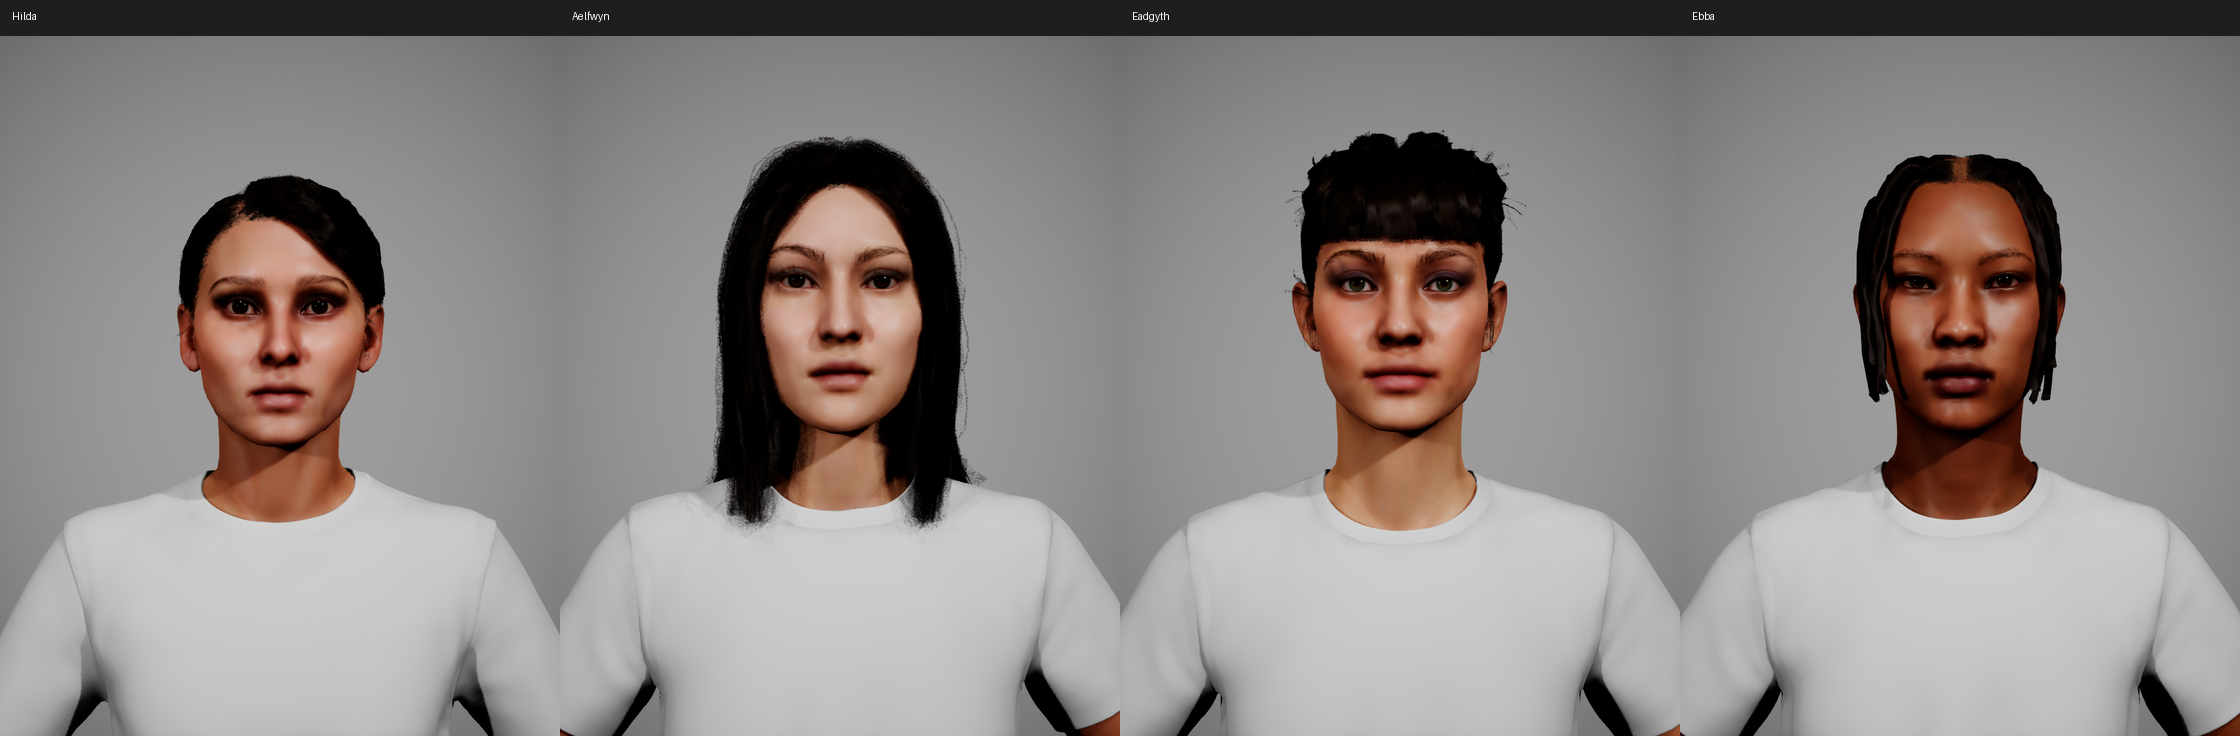
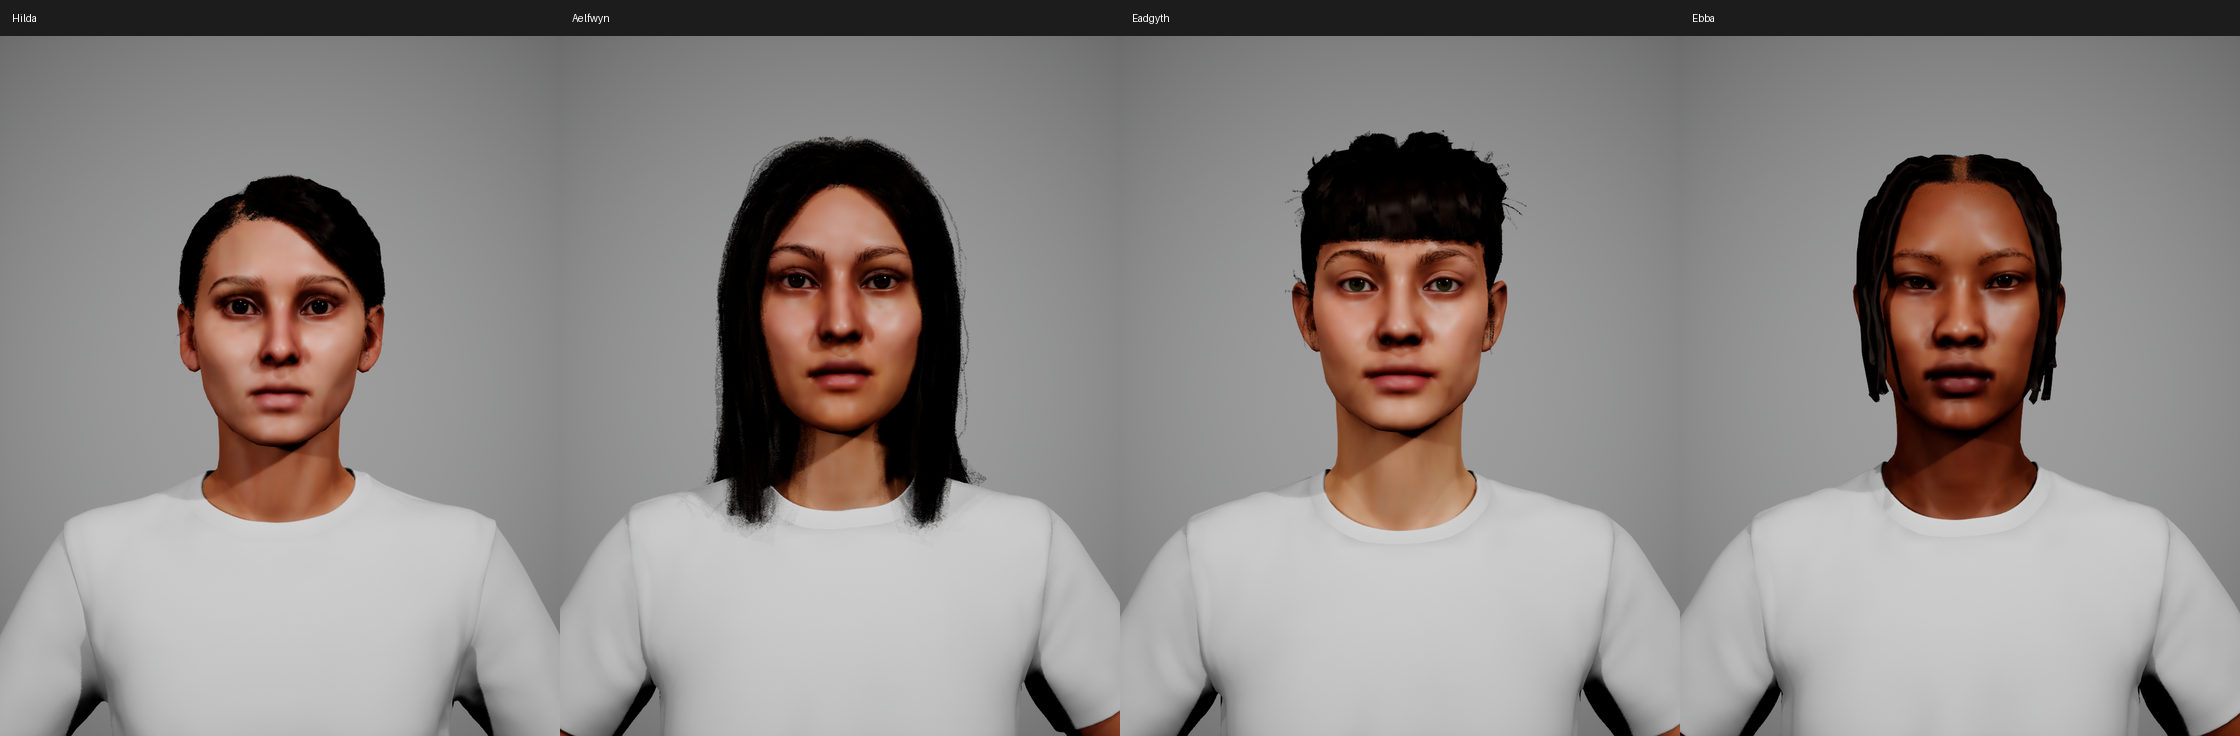
Player faces: "makeup": "none" clears preset makeup on the four female faces
Build-PlayerMetaHumans.py clears makeup_settings (foundation, eyes, blush, lips)
via commit_makeup_settings when a face sets "makeup": "none". Hilda, Aelfwyn,
Eadgyth and Ebba rebuilt and re-rendered; faces_built_female.png refreshed.

diff --git a/tools/Build-PlayerMetaHumans.py b/tools/Build-PlayerMetaHumans.py
@@ -7,6 +7,7 @@ It starts on the editor's first tick, builds, then quits the editor.
 
 Reads GameClient/ArtSource/Characters/Player/faces.json ({"faces": [{"id", "preset", "gender", "hair", "beard", "mustache", "skin"}]}).
 Optional "skin": [u, v] sets the skin tone (the Creator's tone picker position); every build logs the face's tone as PLAYER_METAHUMAN_SKIN.
+Optional "makeup": "none" clears the preset's foundation, eye shadow/liner, blush and lipstick (logs PLAYER_METAHUMAN_MAKEUP).
 Each face's preset is copied to /Game/Frontier/Characters/Player/Faces/MHC_<id> and given its grooms (WI_* wardrobe
 items). MetaHuman's cloud auto-rig and texture download run only when the copy cannot build yet (they use the editor's
 signed-in Epic account). The optimized, medium-quality assembly goes to /Game/Frontier/Characters/Player/Built/MHC_<id>,
@@ -55,6 +56,17 @@ def build_face(face, subsystem, library):
             skin.skin.u, skin.skin.v = face['skin']
             subsystem.commit_skin_settings(character, skin)
         unreal.log(f"PLAYER_METAHUMAN_SKIN id={face['id']} u={skin.skin.u:.3f} v={skin.skin.v:.3f}")
+        if face.get('makeup') == 'none':
+            makeup = character.get_editor_property('makeup_settings')
+            makeup.foundation.apply_foundation = False
+            makeup.eyes.type = unreal.MetaHumanCharacterEyeMakeupType.NONE
+            makeup.eyes.opacity = 0.0
+            makeup.blush.type = unreal.MetaHumanCharacterBlushMakeupType.NONE
+            makeup.blush.intensity = 0.0
+            makeup.lips.type = unreal.MetaHumanCharacterLipsMakeupType.NONE
+            makeup.lips.opacity = 0.0
+            subsystem.commit_makeup_settings(character, makeup)
+            unreal.log(f"PLAYER_METAHUMAN_MAKEUP {face['id']}")
         if not subsystem.can_build_meta_human(character=character):
             rig = unreal.MetaHumanCharacterAutoRiggingRequestParams()
             rig.blocking = True; rig.report_progress = False
